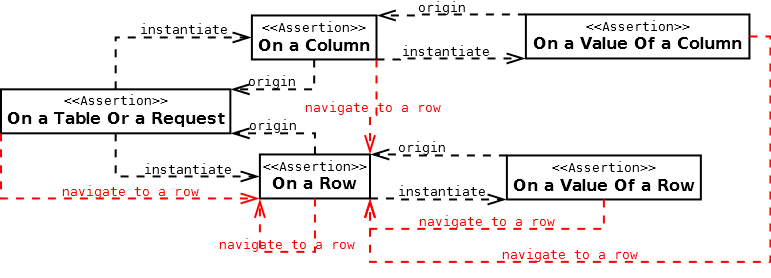
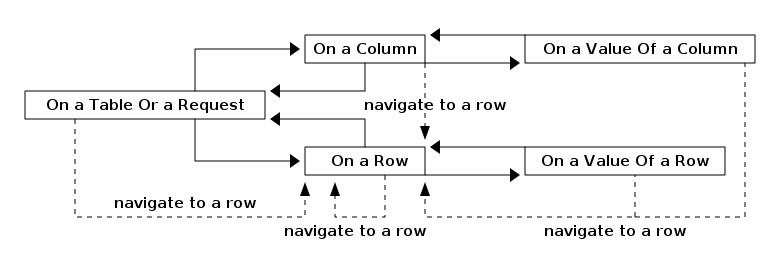
Generated by gradle-git-publish.

diff --git a/index.html b/index.html
@@ -7801,7 +7801,7 @@ and after that to each value (<code>value()</code> calls have similar behavior f
 <p><a href="#assertj-db-concepts-changes">Changes</a></p>
 </li>
 <li>
-<p><a href="#assertj-db-concepts-change">change</a></p>
+<p><a href="#assertj-db-concepts-change">Change</a></p>
 </li>
 <li>
 <p><a href="#assertj-db-concepts-row">Row</a></p>
@@ -8614,7 +8614,7 @@ are the differences of states in database between a <code>start point</code> and
 </div>
 <div class="imageblock">
 <div class="content">
-<img src="images/db-changes-1.png" alt="db changes 1">
+<img src="images/db-changes-concept.png" alt="db changes concept">
 </div>
 </div>
 <div class="paragraph">
@@ -9998,7 +9998,7 @@ assertThat(request)...</code></pre>
 </div>
 <div class="imageblock">
 <div class="content">
-<img src="images/db-navigation-with-table-or-request.png" alt="db navigation with table or request">
+<img src="images/db-navigation-with-table-or-request.png" alt="db navigation with table or request" width="820" height="224">
 </div>
 </div>
 <div class="paragraph">
@@ -10023,7 +10023,7 @@ assertThat(changes)...</code></pre>
 </div>
 <div class="imageblock">
 <div class="content">
-<img src="images/db-navigation-with-changes.png" alt="db navigation with changes">
+<img src="images/db-navigation-with-changes.png" alt="db navigation with changes" width="970" height="224">
 </div>
 </div>
 <div class="paragraph">
@@ -10771,7 +10771,7 @@ assertThat(tableOrRequest).row(2).row()...</code></pre>
 </div>
 <div class="imageblock">
 <div class="content">
-<img src="images/db-navigation-with-table-or-request-to-row.png" alt="db navigation with table or request to row">
+<img src="images/db-navigation-with-table-or-request-to-row.png" alt="db navigation with table or request to row" width="780" height="266">
 </div>
 </div>
 <div class="paragraph">
@@ -10861,7 +10861,7 @@ assertThat(tableOrRequest).column("surname").column().column(6).column("id")...<
 </div>
 <div class="imageblock">
 <div class="content">
-<img src="images/db-navigation-with-table-or-request-to-column.png" alt="db navigation with table or request to column">
+<img src="images/db-navigation-with-table-or-request-to-column.png" alt="db navigation with table or request to column" width="790" height="266">
 </div>
 </div>
 <div class="paragraph">
@@ -10947,7 +10947,7 @@ assertThat(tableOrRequest).row().value("surname").value().value(6).value("id")..
 </div>
 <div class="imageblock">
 <div class="content">
-<img src="images/db-navigation-with-table-or-request-to-value.png" alt="db navigation with table or request to value">
+<img src="images/db-navigation-with-table-or-request-to-value.png" alt="db navigation with table or request to value" width="880" height="294">
 </div>
 </div>
 <div class="paragraph">
@@ -11072,7 +11072,7 @@ assertThat(changes).ofCreation().ofAll()...</code></pre>
 </div>
 <div class="imageblock">
 <div class="content">
-<img src="images/db-navigation-with-changes-to-changes.png" alt="db navigation with changes to changes">
+<img src="images/db-navigation-with-changes-to-changes.png" alt="db navigation with changes to changes" width="950" height="280">
 </div>
 </div>
 <div class="paragraph">
@@ -11150,11 +11150,11 @@ methods which allows to navigate to the next change of creation, modification an
 </div>
 <div class="listingblock">
 <div class="content">
-<pre>// If it is the first call, navigate to the first change of creation
+<pre class="highlightjs highlight"><code data-lang="java" class="language-java hljs">// If it is the first call, navigate to the first change of creation
 assertThat(changes).changeOfCreation()...
 // Navigate to the the first change of creation
 // and after the second change of creation
-assertThat(changes).changeOfCreation().changeOfCreation()...</pre>
+assertThat(changes).changeOfCreation().changeOfCreation()...</code></pre>
 </div>
 </div>
 <div class="ulist">
@@ -11167,14 +11167,14 @@ methods with <code>index</code> as parameter which allows to navigate to the cha
 </div>
 <div class="listingblock">
 <div class="content">
-<pre>// Navigate to the change of modification at index 2
+<pre class="highlightjs highlight"><code data-lang="java" class="language-java hljs">// Navigate to the change of modification at index 2
 assertThat(changes).changeOfModification()
                    .changeOfModification(2)...
 // It is possible to chain the calls
 // to navigate to another change of modification.
 // Here change of modification at index 5
 assertThat(changes).changeOfModification(4)
-                   .changeOfModification()...</pre>
+                   .changeOfModification()...</code></pre>
 </div>
 </div>
 <div class="ulist">
@@ -11187,7 +11187,7 @@ methods with <code>tableName</code> as parameter which allows to navigate to the
 </div>
 <div class="listingblock">
 <div class="content">
-<pre>// If it is the first call, navigate
+<pre class="highlightjs highlight"><code data-lang="java" class="language-java hljs">// If it is the first call, navigate
 // to the first change of creation on "members" table
 assertThat(changes).changeOfCreationOnTable("members")...
 // It is possible to chain the calls to navigate
@@ -11195,7 +11195,7 @@ assertThat(changes).changeOfCreationOnTable("members")...
 // after the first change of creation on the "members" table
 // (so the second change of creation)
 assertThat(changes).changeOfCreationOnTable("members")
-                   .changeOfCreationOnTable("members")...</pre>
+                   .changeOfCreationOnTable("members")...</code></pre>
 </div>
 </div>
 <div class="ulist">
@@ -11208,14 +11208,14 @@ methods with <code>tableName</code> and <code>index</code> as parameters which a
 </div>
 <div class="listingblock">
 <div class="content">
-<pre>// Navigate to the change of deletion at index 2 of "members" table
+<pre class="highlightjs highlight"><code data-lang="java" class="language-java hljs">// Navigate to the change of deletion at index 2 of "members" table
 assertThat(changes).changeOfDeletionOnTable("members")
                    .changeOfDeletionOnTable("members", 2)...
 // It is possible to chain the calls
 // to navigate to another change of deletion.
 // Here change of deletion at index 7 of "members" table
 assertThat(changes).changeOfDeletionOnTable("members", 6)
-                   .changeOfDeletionOnTable("members")...</pre>
+                   .changeOfDeletionOnTable("members")...</code></pre>
 </div>
 </div>
 <div class="paragraph">
@@ -11236,7 +11236,7 @@ assertThat(changes).changeOnTableWithPks("members", 1).change()...</code></pre>
 </div>
 <div class="imageblock">
 <div class="content">
-<img src="images/db-navigation-with-changes-to-change.png" alt="db navigation with changes to change">
+<img src="images/db-navigation-with-changes-to-change.png" alt="db navigation with changes to change" width="780" height="294">
 </div>
 </div>
 <div class="paragraph">
@@ -11305,7 +11305,7 @@ assertThat(changes).change().rowAtStartPoint().rowAtEndPoint()...</code></pre>
 </div>
 <div class="imageblock">
 <div class="content">
-<img src="images/db-navigation-with-changes-to-row.png" alt="db navigation with changes to row">
+<img src="images/db-navigation-with-changes-to-row.png" alt="db navigation with changes to row" width="740" height="266">
 </div>
 </div>
 <div class="paragraph">
@@ -11434,7 +11434,7 @@ assertThat(changes).change().column("surname").columnAmongTheModifiedOnes()
 </div>
 <div class="imageblock">
 <div class="content">
-<img src="images/db-navigation-with-changes-to-column.png" alt="db navigation with changes to column">
+<img src="images/db-navigation-with-changes-to-column.png" alt="db navigation with changes to column" width="750" height="266">
 </div>
 </div>
 <div class="paragraph">
@@ -11535,7 +11535,7 @@ assertThat(changes).change().column().valueAtStartPoint().valueAtEndPoint()...</
 </div>
 <div class="imageblock">
 <div class="content">
-<img src="images/db-navigation-with-changes-to-value.png" alt="db navigation with changes to value">
+<img src="images/db-navigation-with-changes-to-value.png" alt="db navigation with changes to value" width="920" height="294">
 </div>
 </div>
 <div class="paragraph">
@@ -12764,7 +12764,7 @@ You can clone the repository and run its tests !</p>
 <div id="footer">
 <div id="footer-text">
 Version 0.9.9<br>
-Last updated 2020-03-26 20:59:23 UTC
+Last updated 2020-03-29 00:11:02 UTC
 </div>
 </div>
 <link rel="stylesheet" href="highlight/styles/railscasts.min.css">
